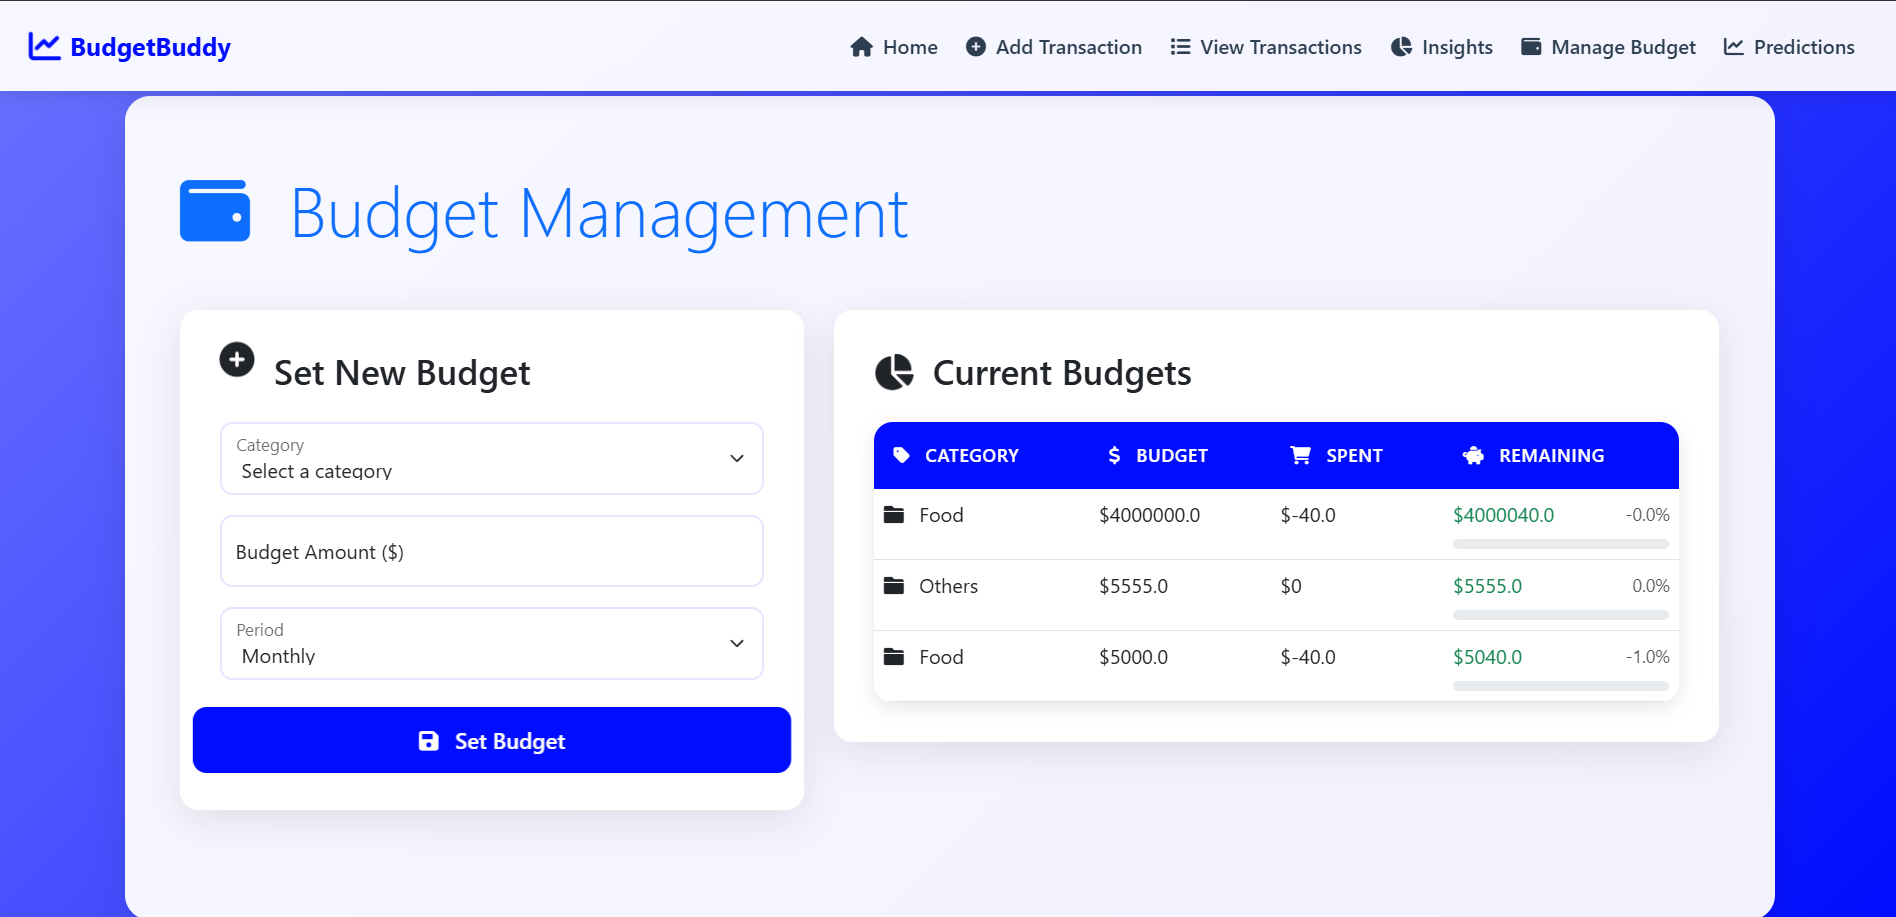
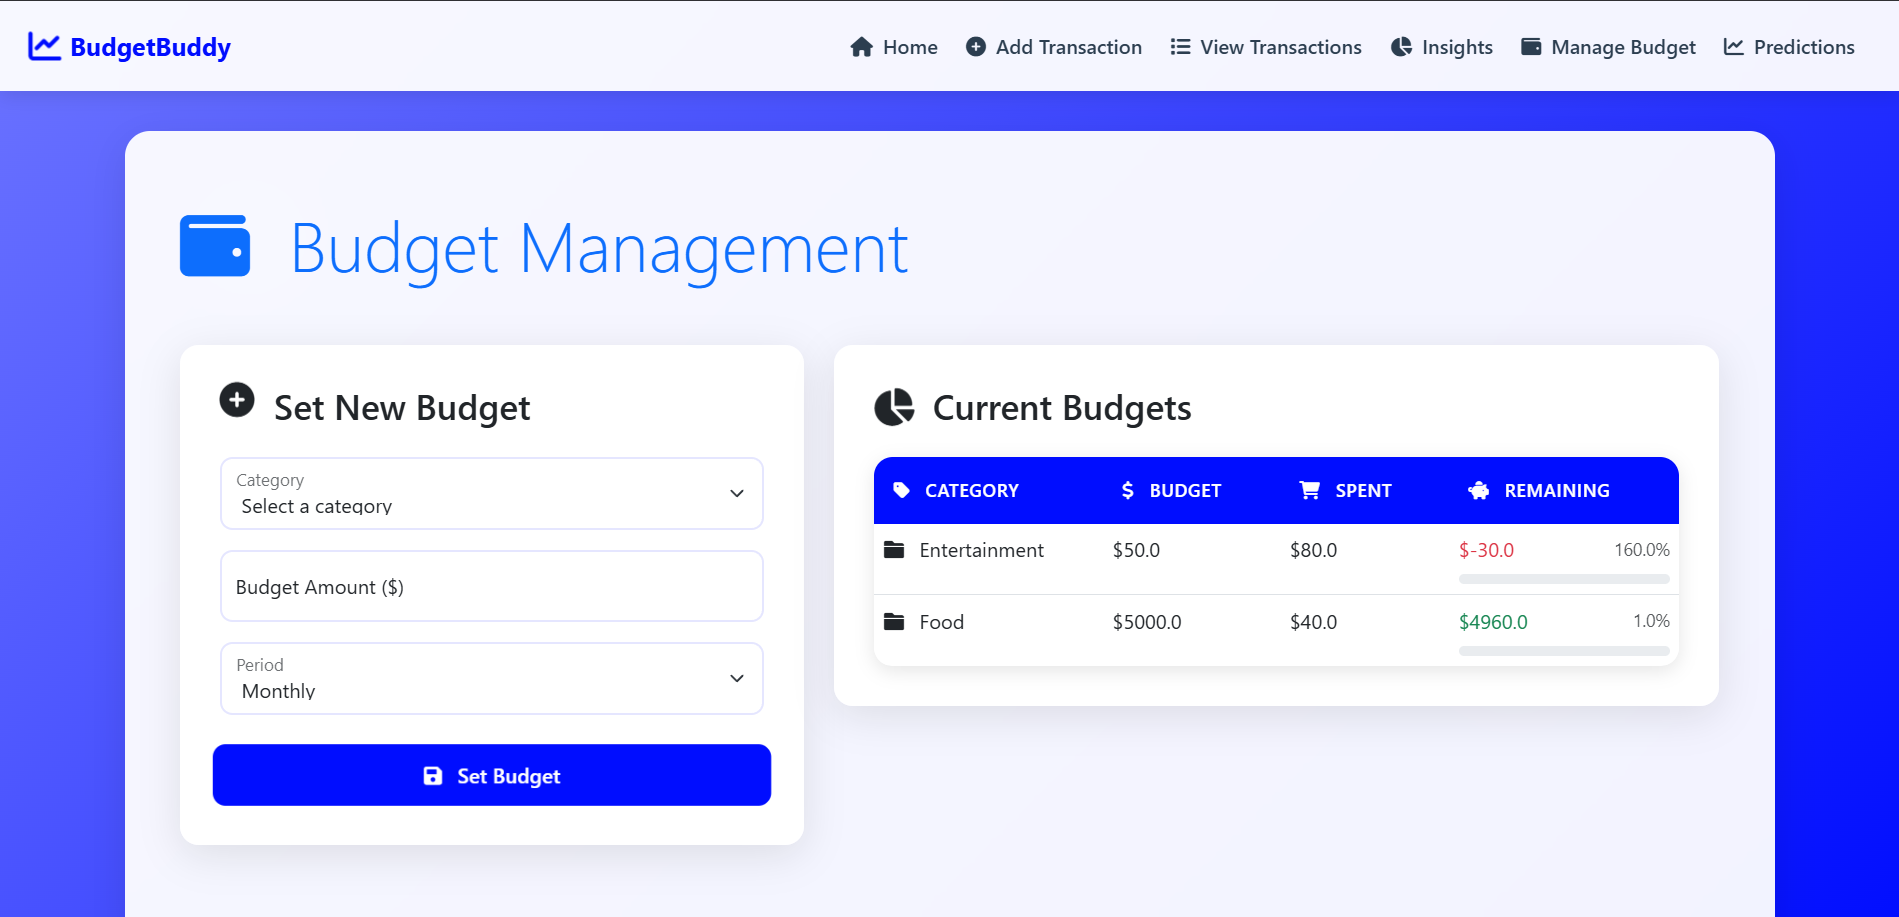
mange commit

diff --git a/app.py b/app.py
@@ -272,8 +272,8 @@ def budget():
 
         try:
             mongo.db.budgets.update_one(
-                {'category': category, 'period': period}, 
-                {'$set': budget_entry}, 
+                {'category': category, 'period': period},
+                {'$set': budget_entry},
                 upsert=True
             )
             flash('Budget set successfully!', 'success')
@@ -285,15 +285,22 @@ def budget():
     try:
         budgets = list(mongo.db.budgets.find())
         transactions = list(mongo.db.transactions.find())
+
         for budget in budgets:
-            budget['spent'] = sum(
-                t['amount'] for t in transactions 
+            # Calculate total spent for the category and period
+            budget['spent'] = abs(sum(
+                t['amount'] for t in transactions
                 if t['category'] == budget['category'] and t['amount'] < 0
-            )
+            ))
+
+            # Calculate remaining budget
+            budget['remaining'] = budget['budget'] - budget['spent']
+
         return render_template('budget.html', budgets=budgets)
     except Exception as e:
         flash(f'An error occurred: {str(e)}', 'error')
         return render_template('budget.html', budgets=[])
+
 
 @app.route('/predictions')
 @login_required

diff --git a/README.md b/README.md
@@ -62,7 +62,7 @@ This project utilizes a robust technology stack, ensuring performance, scalabili
 ![View Transactions Screenshot](screenshots/view_transaction.png)
 
 ### Insights View
-![Insights Screenshot](screenshots/Insights.png)
+![Insights Screenshot](screenshots/insights.png)
 
 ### Manage Budget View
 ![Manage Budget Screenshot](screenshots/manage_budget.png)
